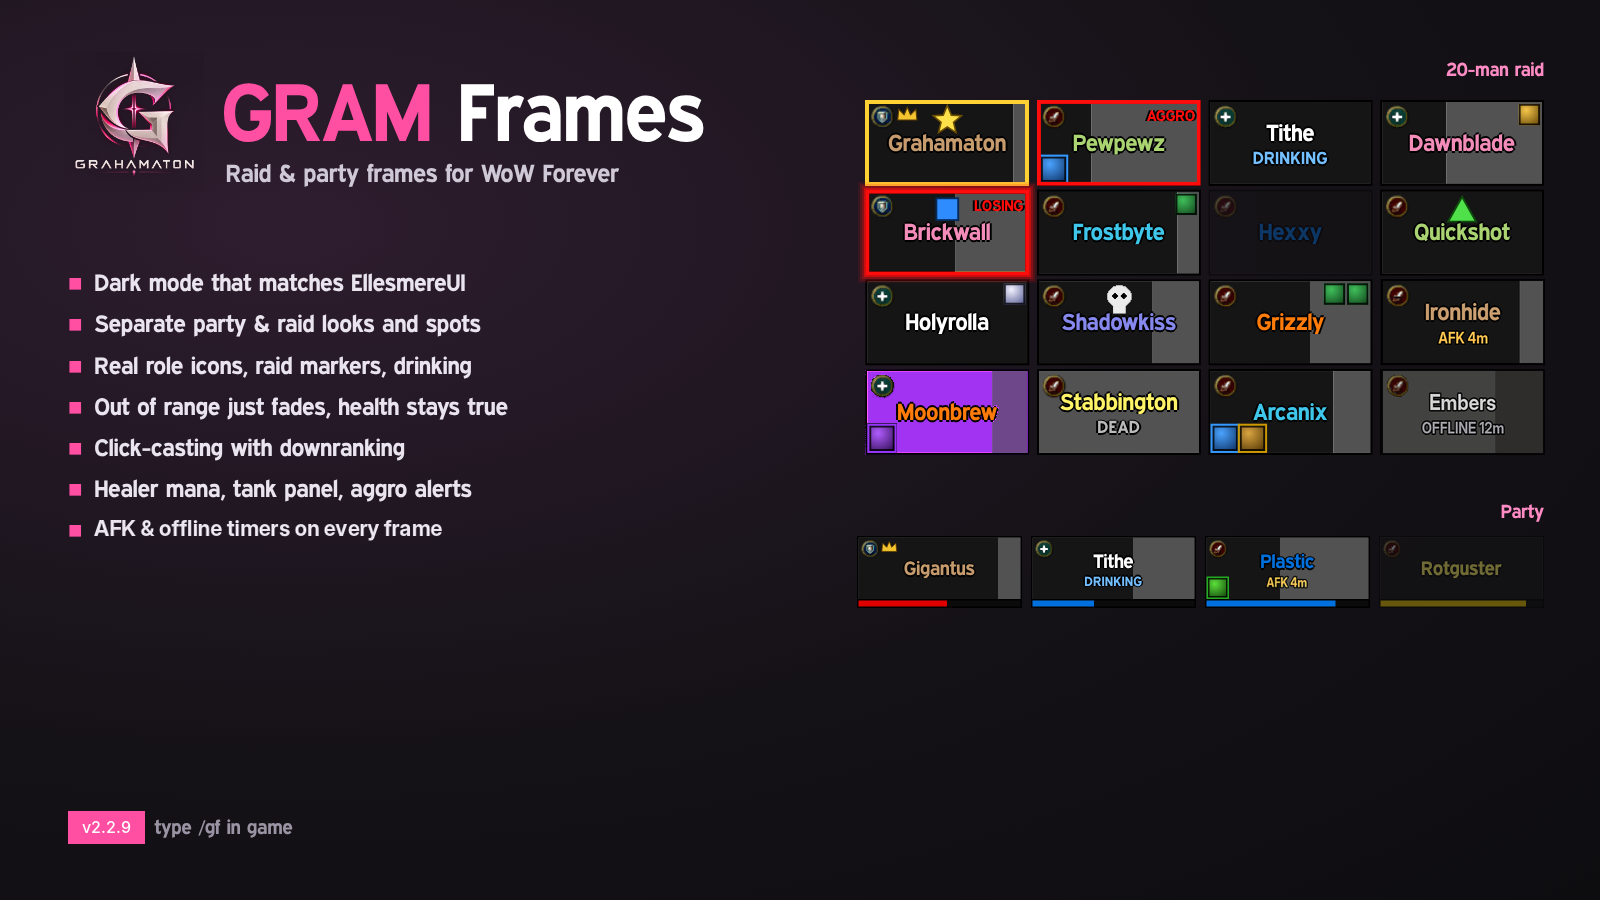
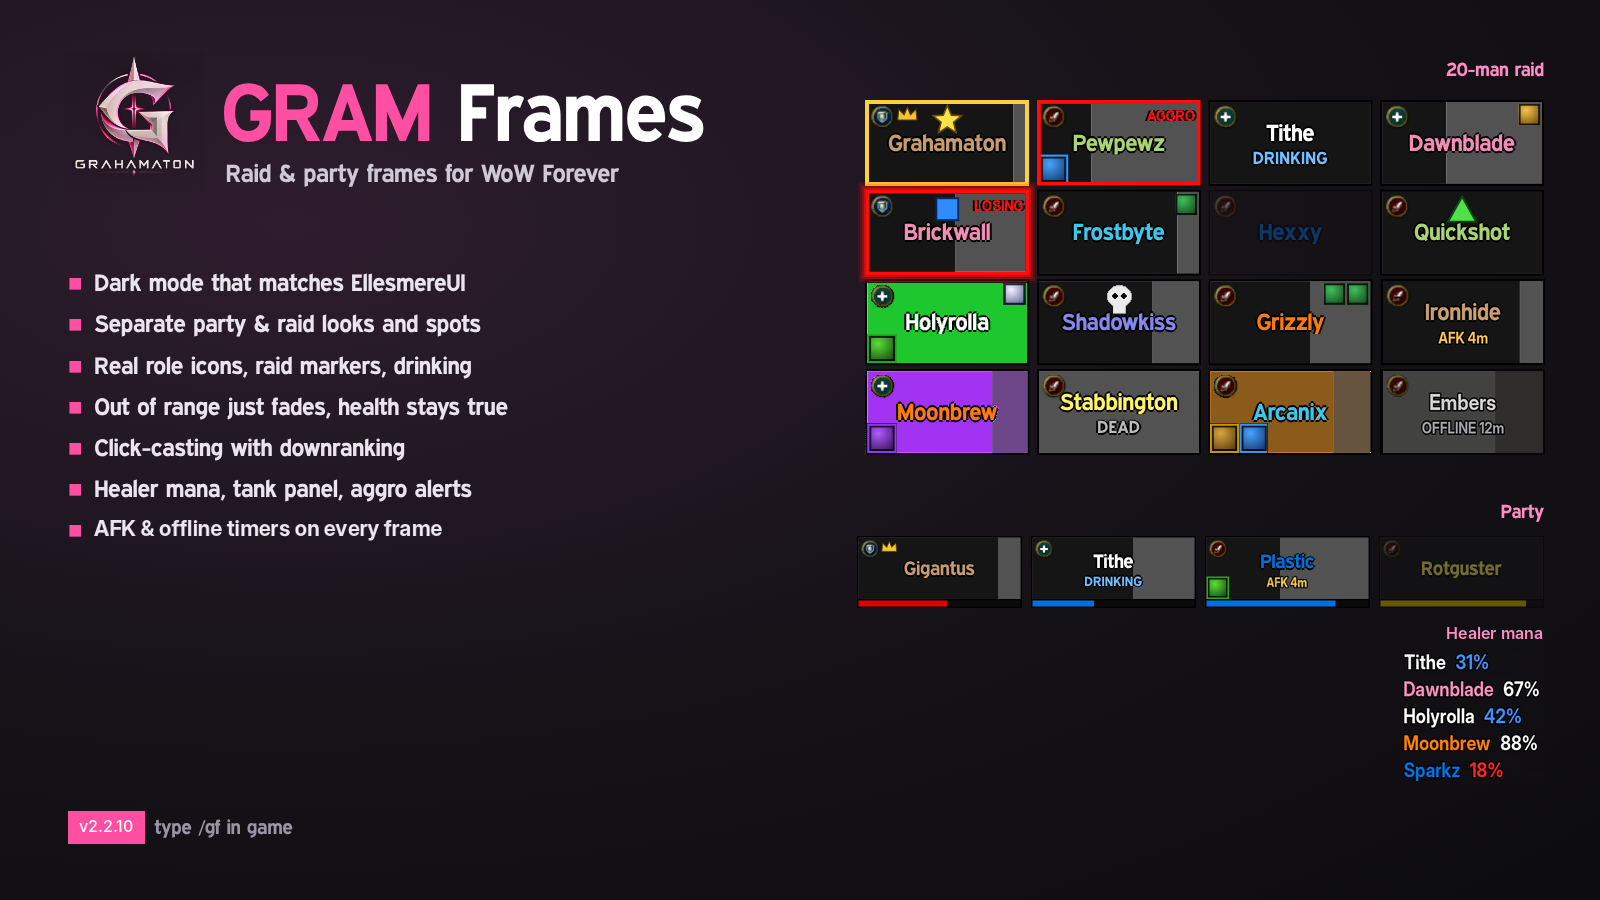
Gram Frames 2.2.10: disease preview, darker disease brown; main picture shows curse/poison/disease and healer mana
Claude-Session: https://claude.ai/code/session_01QoGf5xWJXzgnF9kYyRAGWj

diff --git a/CHANGELOG.md b/CHANGELOG.md
@@ -1,5 +1,10 @@
 # Gram Frames changelog
 
+## 2.2.10
+- Disease is now a darker brown, so it's easy to tell apart from the debuff icons.
+- Test mode shows all three: a cursed (purple), a poisoned (green) and a diseased (brown) frame.
+- Main picture shows curse, poison and disease bars, plus healer mana.
+
 ## 2.2.9
 - When someone has a curse, poison, magic or disease you can remove, their health bar turns that color: **purple** for curse, **green** for poison, blue for magic, brown for disease. The debuff icon still shows.
 - New options on the Layout page under Debuffs: **Color Bar (Curse, Poison, Magic)** and **Only Ones I Can Remove** (turn that off to color the bar for every curse/poison, even if you can't cleanse it).

diff --git a/README.md b/README.md
@@ -4,7 +4,7 @@
 
 Dark, clean raid and party frames for **WoW Forever**, built from scratch for tanks and healers who want full control without the clutter.
 
-**Version 2.2.9 (beta)** · Interface 16001 · type `/gf` in game
+**Version 2.2.10 (beta)** · Interface 16001 · type `/gf` in game
 
 What's new: see the [changelog](CHANGELOG.md).
 
